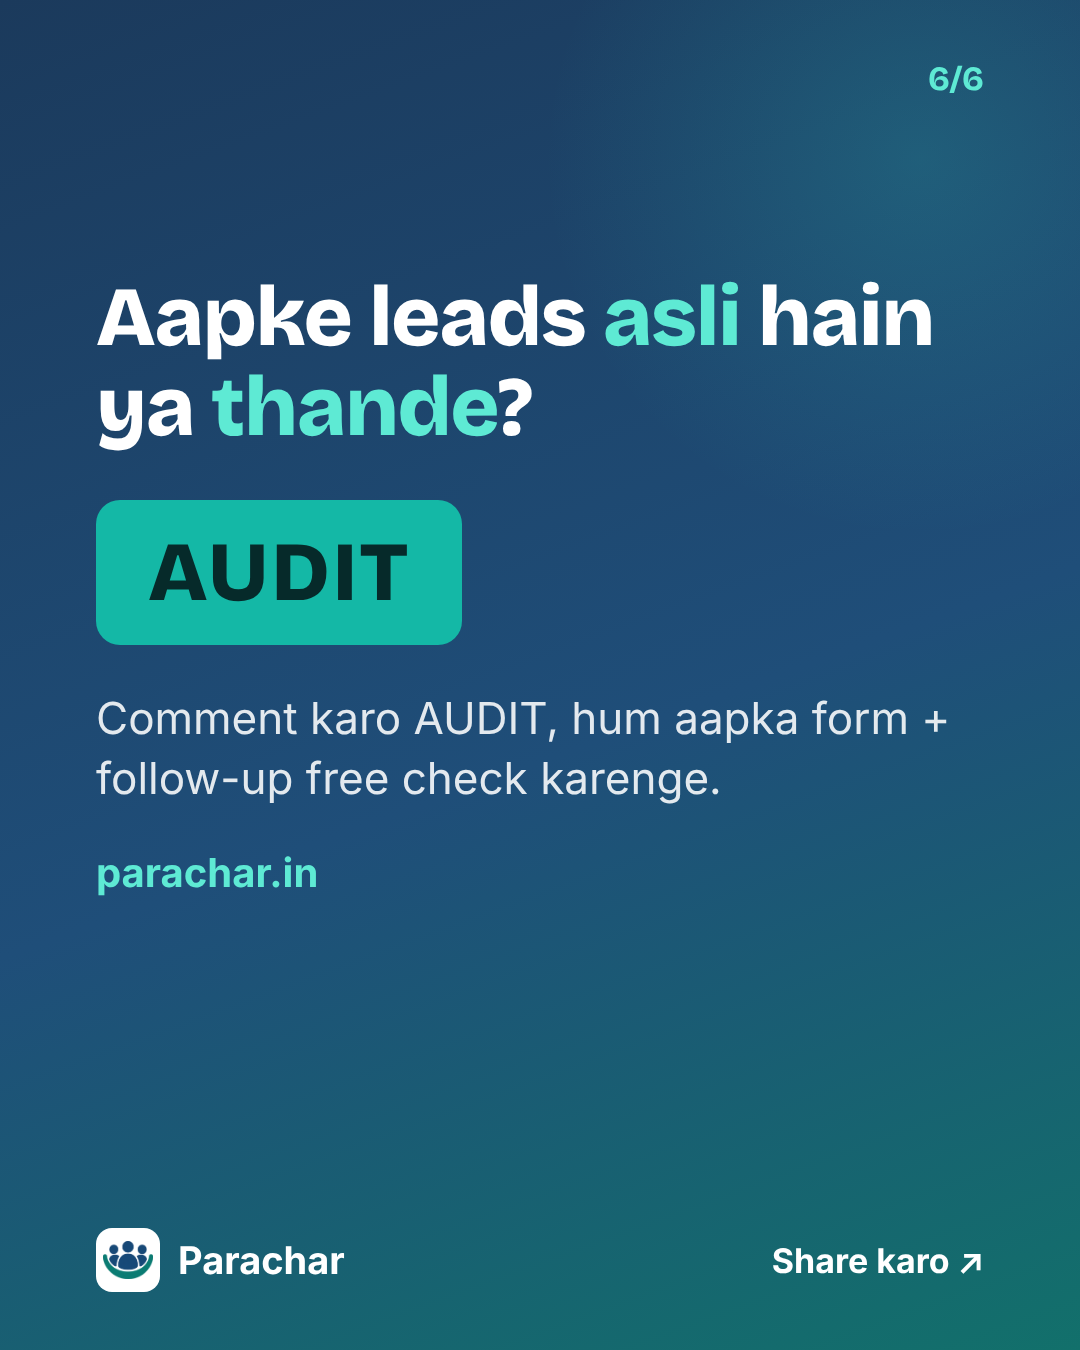
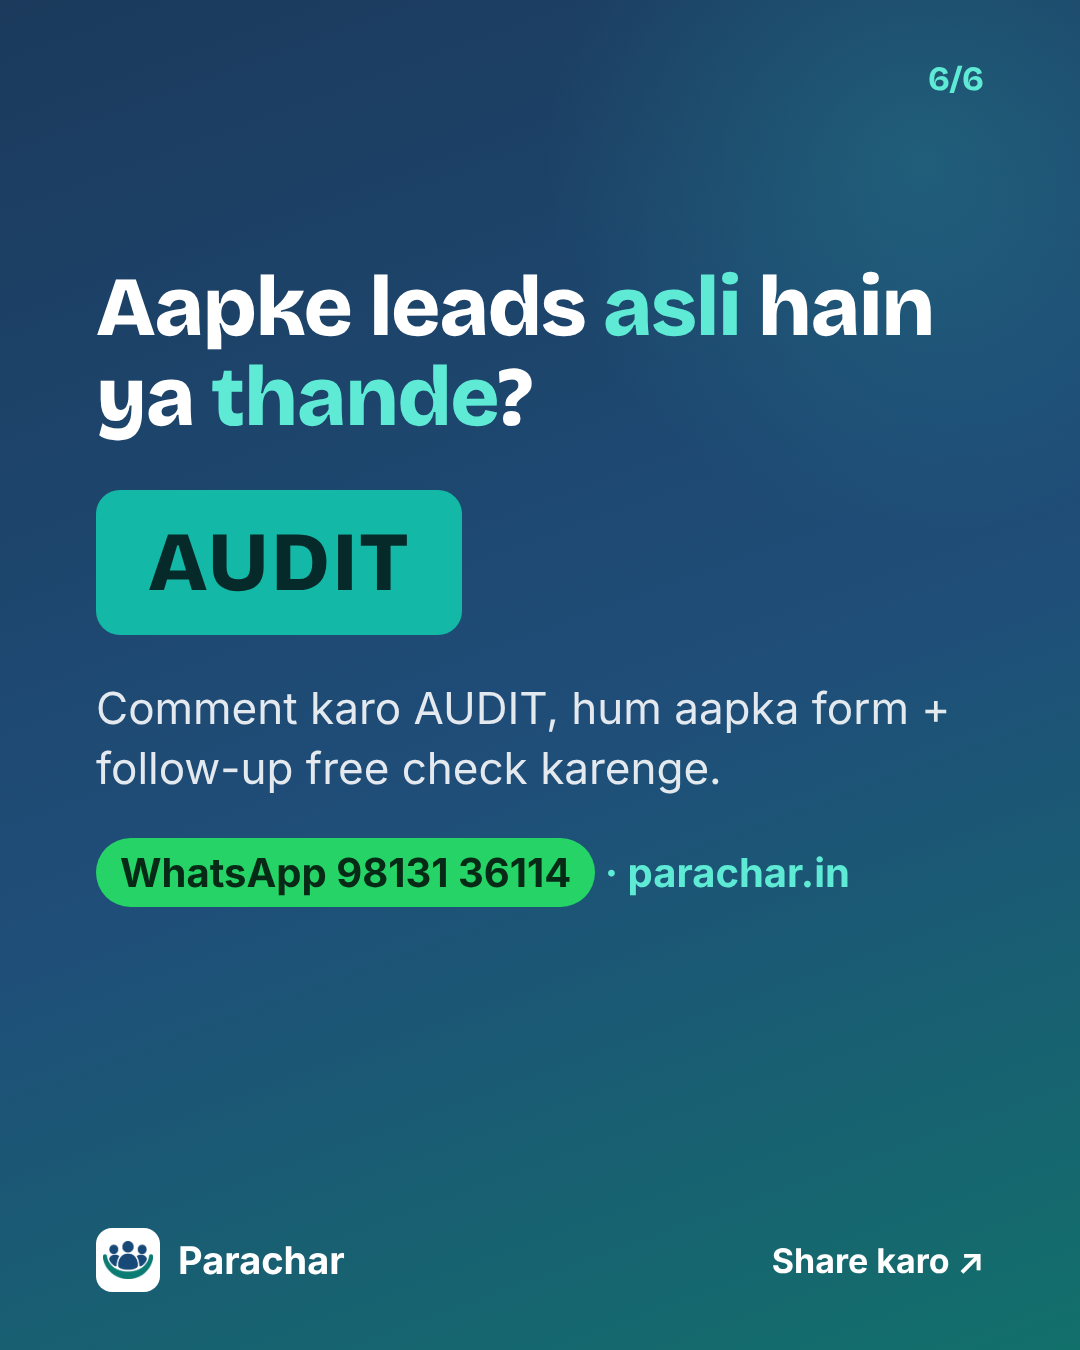
Instagram: daily image post at 18:47 IST + Sunday morning posts
Owner ask (15 Nov): an image post every day, and posts on Sundays too.
- card.js: 1080x1350 image card: business problem -> the exact WhatsApp
  message to copy ([blanks] in yellow) -> why it works -> WhatsApp CTA.
  Palette and light/dark theme rotate by id; fails if text overflows.
- ig.js: single-image posts (type "image"); IG_QUEUE picks the queue.
- ig-post.yml: morning queue now runs daily (incl. Sunday); image queue
  social/ig/images/ at 18:47 IST with a 20:17 catch-up; dispatch input
  "queue" (reel | image).
- 15 image posts 15-29 Nov, one business problem each (dental, restaurant,
  real estate, coaching, salon, gym, CA, boutique, car service, interior,
  physio, pharmacy, travel, school, bakery).
- Sunday carousels 22 Nov (WhatsApp Business settings) and 29 Nov
  (Google Business Profile).
- Carousel end slide shows WhatsApp 98131 36114.

Claude-Session: https://claude.ai/code/session_01QfnfH9hy6EhMDWXC4vLA8Q

diff --git a/card.js b/card.js
@@ -1,0 +1,72 @@
+// Daily Instagram image post (services): one business problem -> the exact message to copy -> why it works.
+// Usage: node card.js <spec.json> [outDir]   default outDir: social/ig/media/<id>/  (writes slide-1.png, 1080x1350)
+// Spec: { id, type: "image", industry, kicker, title, fix_label, message, why, caption, palette? (teal|orange|...), theme? (dark|light) }
+// *word* = highlighted. Palette and theme rotate by id when not given, so consecutive days never look the same.
+const fs = require('fs'), path = require('path');
+const { chromium } = require(process.env.PLAYWRIGHT_PATH || 'playwright');
+
+const PAL = { teal: ['#14B8A6', '#5EEAD4'], orange: ['#EA580C', '#FDBA74'], pink: ['#DB2777', '#F9A8D4'], red: ['#DC2626', '#FCA5A5'],
+  blue: ['#2563EB', '#93C5FD'], violet: ['#7C3AED', '#C4B5FD'], green: ['#16A34A', '#86EFAC'], gold: ['#B45309', '#FCD34D'] };
+const esc = s => String(s || '').replace(/&/g, '&amp;').replace(/</g, '&lt;').replace(/>/g, '&gt;');
+const rich = s => esc(s).replace(/\*([^*]+)\*/g, '<em>$1</em>').replace(/\[([^\]]+)\]/g, '<span class="ph">[$1]</span>').replace(/\n/g, '<br>'); // [blank] = fill your own
+const hash = s => [...String(s)].reduce((h, c) => Math.imul(h ^ c.codePointAt(0), 16777619) >>> 0, 2166136261);
+
+function html(s) {
+  const names = Object.keys(PAL), h = hash(s.id);
+  const [ac, ac2] = PAL[s.palette] || PAL[names[h % names.length]];
+  const dark = (s.theme || (h % 2 ? 'dark' : 'light')) === 'dark';
+  const bg = dark ? `radial-gradient(900px 700px at 90% 0%,${ac}55,transparent 60%),linear-gradient(170deg,#0B1220,#111827)` : `radial-gradient(900px 700px at 90% 0%,${ac}22,transparent 60%),#FAF7F0`;
+  const ink = dark ? '#fff' : '#111827', muted = dark ? '#CBD5E1' : '#4B5563', hi = dark ? ac2 : ac;
+  return `<!doctype html><html><head><meta charset="utf-8"><style>
+@font-face{font-family:B;src:url(fonts/bricolage-var-latin.woff2) format("woff2");font-weight:200 800}
+@font-face{font-family:I;src:url(fonts/inter-var-latin.woff2) format("woff2");font-weight:100 900}
+*{margin:0;box-sizing:border-box}
+body{width:1080px;height:1350px;overflow:hidden;background:${bg};color:${ink};font-family:I,sans-serif;position:relative}
+.top{position:absolute;left:80px;right:80px;top:64px;display:flex;align-items:center;justify-content:space-between}
+.brand{display:flex;align-items:center;gap:16px;font:800 40px B}
+.brand i{width:62px;height:62px;border-radius:16px;background:#fff;display:grid;place-items:center;box-shadow:0 0 0 2px ${dark ? 'transparent' : '#E5E7EB'}}
+.brand img{width:46px}
+.pill{font:800 26px I;letter-spacing:.08em;text-transform:uppercase;padding:12px 22px;border-radius:999px;background:${ac};color:#fff}
+.wrap{position:absolute;left:80px;right:80px;top:180px;bottom:200px;display:flex;flex-direction:column;justify-content:center}
+.k{font:800 28px I;letter-spacing:.1em;text-transform:uppercase;color:${hi};margin-bottom:22px}
+h1{font:800 76px/1.08 B;letter-spacing:-1.5px}
+h1 em{font-style:normal;color:${hi}}
+.lab{margin-top:48px;font:700 30px I;color:${muted}}
+.chat{margin-top:18px;background:#0B141A;border-radius:34px;padding:30px;box-shadow:0 30px 60px -30px rgba(0,0,0,.5)}
+.msg{background:#005C4B;color:#fff;border-radius:26px 26px 6px 26px;padding:26px 30px;font:500 34px/1.42 I;margin-left:40px;white-space:pre-line}
+.msg em{font-style:normal;font-weight:800;color:#B5F5E6}
+.msg .ph{color:#FDE68A;font-weight:700}
+.msg small{display:block;text-align:right;font-size:22px;color:rgba(255,255,255,.55);margin-top:8px}
+.why{margin-top:34px;font:500 32px/1.4 I;color:${muted}}
+.why b{color:${ink}}
+.why em{font-style:normal;font-weight:700;color:${hi}}
+.foot{position:absolute;left:80px;right:80px;bottom:70px;display:flex;justify-content:space-between;align-items:center}
+.wa{font:800 32px I;padding:16px 28px;border-radius:999px;background:#25D366;color:#062A16}
+.save{font:700 30px I;color:${muted}}
+</style></head><body>
+<div class="top"><div class="brand"><i><img src="mark.png"></i>Parachar</div><div class="pill">${esc(s.industry)}</div></div>
+<div class="wrap">${s.kicker ? `<div class="k">${esc(s.kicker)}</div>` : ''}<h1>${rich(s.title)}</h1>
+<div class="lab">${esc(s.fix_label || 'Ye message copy karo 👇')}</div>
+<div class="chat"><div class="msg">${rich(s.message)}<small>WhatsApp ✓✓</small></div></div>
+${s.why ? `<div class="why"><b>Kyun kaam karta hai:</b> ${rich(s.why)}</div>` : ''}</div>
+<div class="foot"><div class="wa">WhatsApp 98131 36114</div><div class="save">Save karo 🔖</div></div>
+</body></html>`;
+}
+
+(async () => {
+  const [specPath, outArg] = process.argv.slice(2);
+  const spec = JSON.parse(fs.readFileSync(specPath, 'utf8'));
+  const out = outArg || path.join('social/ig/media', spec.id);
+  fs.mkdirSync(out, { recursive: true });
+  const browser = await chromium.launch();
+  const page = await browser.newPage({ viewport: { width: 1080, height: 1350 } });
+  const tmp = path.join(__dirname, `.card-${process.pid}.html`);
+  fs.writeFileSync(tmp, html(spec));
+  await page.goto('file://' + tmp); await page.evaluate(() => document.fonts.ready);
+  // the card must fit: fail loudly instead of posting clipped text
+  const over = await page.evaluate(() => { const w = document.querySelector('.wrap'); return w.scrollHeight > w.clientHeight + 2; });
+  await page.screenshot({ path: path.join(out, 'slide-1.png') }); fs.unlinkSync(tmp);
+  await browser.close();
+  if (over) { console.error(`${spec.id}: text too long for the card, shorten it`); process.exit(2); }
+  console.log(`${spec.id}: image -> ${out}/slide-1.png`);
+})().catch(e => { console.error(e); process.exit(1); });

diff --git a/ig.js b/ig.js
@@ -10,7 +10,7 @@ const fs = require('fs'), path = require('path');
 const G = 'https://graph.facebook.com/v21.0';
 const token = process.env.META_TOKEN;
 const repo = process.env.GITHUB_REPOSITORY || 'ny9813136114/parachar-social';
-const Q = 'social/ig/queue', PUB = 'social/ig/published', LOG = path.join(PUB, 'log.json');
+const Q = process.env.IG_QUEUE || 'social/ig/queue', PUB = 'social/ig/published', LOG = path.join(PUB, 'log.json');
 const sleep = ms => new Promise(r => setTimeout(r, ms));
 const istDate = () => new Date(Date.now() + 5.5 * 3600e3).toISOString().slice(0, 10);
 
@@ -62,6 +62,10 @@ async function igCarousel(igId, imageUrls, caption) {
   return publish(igId, id);
 }
 
+async function igImage(igId, imageUrl, caption) {
+  return publish(igId, (await graph('POST', `/${igId}/media`, { image_url: imageUrl, caption })).id);
+}
+
 async function pageToken(pageId) { return (await graph('GET', `/${pageId}`, { fields: 'access_token' })).access_token; }
 
 async function fbReel(pageId, videoUrl, text) {
@@ -86,7 +90,7 @@ function todays(date) {
   const f = fs.readdirSync(Q).filter(n => n.startsWith(date) && n.endsWith('.json')).sort()[0];
   if (!f) return null;
   const spec = JSON.parse(fs.readFileSync(path.join(Q, f), 'utf8'));
-  return { f, spec, kind: spec.type === 'carousel' ? 'carousel' : 'reel' };
+  return { f, spec, kind: spec.type === 'carousel' ? 'carousel' : spec.type === 'image' ? 'image' : 'reel' };
 }
 
 (async () => {
@@ -111,7 +115,7 @@ function todays(date) {
   } else {
     const dir = `social/ig/media/${t.spec.id}`;
     const n = fs.readdirSync(dir).filter(x => /^slide-\d+\.png$/.test(x)).length;
-    if (n < 2 || n > 10) throw new Error(`${dir}: carousel needs 2-10 slides, found ${n}`);
+    if (t.kind === 'image' ? n !== 1 : (n < 2 || n > 10)) throw new Error(`${dir}: ${t.kind} needs ${t.kind === 'image' ? '1 slide' : '2-10 slides'}, found ${n}`);
     urls = Array.from({ length: n }, (_, i) => `https://raw.githubusercontent.com/${repo}/main/${dir}/slide-${i + 1}.png`);
   }
   if (process.env.DRY_RUN === 'true') { // check the token, the accounts and that Meta can fetch every file; post nothing
@@ -126,7 +130,8 @@ function todays(date) {
   }
   // Instagram is the main target: if it fails the run fails. Facebook is a best-effort copy.
   if (!rec.instagram) {
-    rec.instagram = t.kind === 'reel' ? await igReel(acc.ig, urls.video, urls.cover, caption) : await igCarousel(acc.ig, urls, caption);
+    rec.instagram = t.kind === 'reel' ? await igReel(acc.ig, urls.video, urls.cover, caption)
+      : t.kind === 'image' ? await igImage(acc.ig, urls[0], caption) : await igCarousel(acc.ig, urls, caption);
     try { rec.permalink = (await graph('GET', `/${rec.instagram}`, { fields: 'permalink' })).permalink; } catch {}
     console.log(`Instagram posted: ${rec.permalink || rec.instagram}`);
   }

diff --git a/carousel.js b/carousel.js
@@ -13,7 +13,7 @@ function html(spec, s, i, n) {
   const dark = s.kind !== 'point';
   const num = String(i + 1).padStart(2, '0');
   const body = s.kind === 'cta'
-    ? `<h1>${rich(s.title)}</h1>${s.keyword ? `<div class="kw">${esc(s.keyword)}</div>` : ''}${s.sub ? `<p class="sub">${rich(s.sub)}</p>` : ''}<div class="url">parachar.in</div>`
+    ? `<h1>${rich(s.title)}</h1>${s.keyword ? `<div class="kw">${esc(s.keyword)}</div>` : ''}${s.sub ? `<p class="sub">${rich(s.sub)}</p>` : ''}<div class="url"><span class="wa">WhatsApp 98131 36114</span> · parachar.in</div>`
     : `<h1>${rich(s.title)}</h1>${s.sub ? `<p class="sub">${rich(s.sub)}</p>` : ''}${s.box ? `<div class="box">${rich(s.box)}</div>` : ''}`;
   return `<!doctype html><html><head><meta charset="utf-8"><style>
 @font-face{font-family:B;src:url(fonts/bricolage-var-latin.woff2) format("woff2");font-weight:200 800}
@@ -33,6 +33,7 @@ em{font-style:normal;color:${dark ? '#5EEAD4' : '#0F766E'}}
  font:700 44px/1.4 I;color:${dark ? '#fff' : '#17375E'};position:relative;z-index:1}
 .kw{margin-top:48px;align-self:flex-start;padding:22px 52px;border-radius:24px;background:#14B8A6;color:#062A2A;font:800 84px B;letter-spacing:2px}
 .url{margin-top:40px;font:700 40px I;color:#5EEAD4}
+.url .wa{display:inline-block;padding:10px 24px;border-radius:999px;background:#25D366;color:#062A16}
 .foot{position:absolute;left:96px;right:96px;bottom:58px;display:flex;justify-content:space-between;align-items:center}
 .brand{display:flex;align-items:center;gap:18px;font:700 38px I}
 .brand i{width:64px;height:64px;border-radius:16px;background:${dark ? '#fff' : 'transparent'};display:grid;place-items:center}
